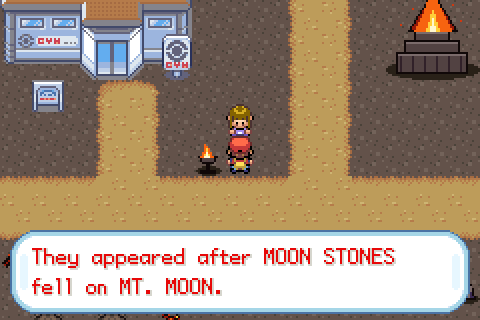
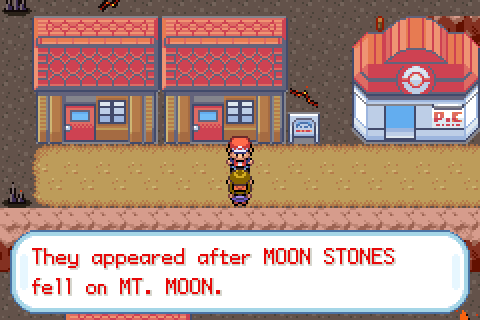
Pyropia v3: three terraces with retaining walls and stairs, big lava lake, gym on the summit (v2 flat kept as reference)
Claude-Session: https://claude.ai/code/session_01GQJ6VBZbBVtTh4mURN6n2L

diff --git a/docs/topaze/reference/pyropia_v2.py b/docs/topaze/reference/pyropia_v2.py
@@ -97,14 +97,7 @@ def claim(x, y, w, h, name):
             assert 0 <= x + i <= W - 1 and 0 <= y + j <= H - 1, (name, x + i, y + j)
             assert (x + i, y + j) not in OCC, 'chevauchement %s avec %s en %s' % (name, OCC[(x + i, y + j)], (x + i, y + j))
             OCC[(x + i, y + j)] = name
-# ---- relief : 3 terrasses (sommet / milieu / bas) separees par des murs de roche decales, escaliers, cadre de falaises
-# portes : sud x=22..23 (y 38..39) ; est y=25..26 (x 46..47)
-FACE = 628
-def wallh(x0, x1, y, stairs=()):
-    """mur de soutenement de 2 cases : bandeau de roche (625) au-dessus, face (628) en dessous"""
-    for x in range(x0, x1 + 1):
-        if any(a <= x <= b for (a, b) in stairs): continue
-        claim(x, y - 1, 1, 2, 'mur'); put(x, y - 1, remap(0x400 | 625)); put(x, y, remap(0x400 | FACE))
+# ---- cadre de falaises : nord (625 plateau / 628 front), ouest 626, est 626 en miroir, sud plateau ; portes sud x=22..23, est y=22..23
 for x in range(W):
     put(x, 0, remap(0x400 | 625)); put(x, 1, remap(0x400 | 628))
     put(x, H - 1, remap(0x400 | 625)); put(x, H - 2, remap(0x400 | 625))
@@ -113,21 +106,15 @@ for y in range(2, H - 2):
     put(W - 2, y, remap(0x400 | 626, True)); put(W - 1, y, remap(0x400 | 626, True))
 for x in (22, 23):
     for y in (H - 2, H - 1): put(x, y, GRASS)
-for y in (25, 26):
+for y in (22, 23):
     for x in (W - 2, W - 1): put(x, y, GRASS)
 for (x, y) in list(G):
     if x in (0, 1, W - 2, W - 1) or y in (0, 1, H - 2, H - 1): OCC[(x, y)] = 'cadre'
-STAIRS = []                                    # cases d'escalier (marchables, dessinees)
-W1A = (2, 29, 11); W1B = (30, 45, 12); W2A = (2, 24, 20); W2B = (26, 45, 24)
-ST = {'W1A': [(22, 23)], 'W1B': [(42, 43)], 'W2A': [(22, 23)], 'W2B': [(40, 41)]}
-for nm, (x0, x1, y) in (('W1A', W1A), ('W1B', W1B), ('W2A', W2A), ('W2B', W2B)):
-    wallh(x0, x1, y, ST[nm])
-    for (a, b) in ST[nm]:
-        for x in range(a, b + 1):
-            for yy in (y - 1, y): claim(x, yy, 1, 1, 'escalier'); STAIRS.append((x, yy))
-for y in range(19, 25):                                  # joint vertical : le milieu-est domine le bas-ouest (mur miroir : face tournee vers l'ouest)
-    claim(25, y, 1, 1, 'mur'); put(25, y, remap(0x400 | 626, True))
-# ---- lacs de lave : ouest = bassin de Lavaridge (6x8) ; est = grand lac (rectangle bordé de roche)
+# ---- pins decoratifs (1 case, bloques) en bordure interieure
+PINE = [198, 22, 14]
+def pine(x, y): claim(x, y, 1, 1, 'pin'); put(x, y, remap(0x400 | PINE[(x * 3 + y) % 3]))
+
+# ---- batiments : morceaux de Lavaridge poses au coin (dx, dy)
 def chunk(x0, y0, cw, ch, dx, dy, name):
     claim(dx, dy, cw, ch, name); doors = []
     for j in range(ch):
@@ -135,70 +122,49 @@ def chunk(x0, y0, cw, ch, dx, dy, name):
             v = lv(x0 + i, y0 + j); put(dx + i, dy + j, remap(v))
             if 0x60 <= beh(v & 0x3ff) <= 0x6f: doors.append((dx + i, dy + j))
     return doors
-def lake(x0, y0, w, h, name):
-    claim(x0, y0, w, h, name)
-    for j in range(h):
-        for i in range(w):
-            top, bot, lef, rig = j == 0, j == h - 1, i == 0, i == w - 1
-            if top: m = 665 if lef else 669 if rig else (666, 667)[i % 2]
-            elif bot: m = 689 if lef else 693 if rig else (690, 691)[i % 2]
-            elif lef: m = 673
-            elif rig: m = 677
-            else: m = (675, 699, 675, 700, 797)[(i * 3 + j) % 5] if (i + j) % 4 == 0 else 675
-            put(x0 + i, y0 + j, remap(0x400 | m))
 D = {}
-chunk(2, 2, 6, 8, 4, 2, 'lac ouest')
-lake(31, 3, 10, 5, 'lac est')
-D['gym'] = chunk(2, 11, 6, 5, 20, 3, 'arene')
-D['museumA'] = chunk(11, 12, 4, 4, 4, 13, 'musee aile A')
-D['museumB'] = chunk(15, 12, 4, 4, 8, 13, 'musee aile B')
-D['center'] = chunk(8, 3, 4, 4, 14, 13, 'centre pokemon')
-D['mart'] = chunk(14, 2, 4, 4, 36, 13, 'boutique')
+D['pool'] = chunk(2, 2, 6, 8, 4, 3, 'lac de lave')
+D['gym'] = chunk(2, 11, 6, 5, 6, 14, 'arene')
+D['center'] = chunk(8, 3, 4, 4, 14, 5, 'centre pokemon')
+D['mart'] = chunk(14, 2, 4, 4, 36, 12, 'boutique')
+D['museumA'] = chunk(11, 12, 4, 4, 27, 5, 'musee aile A')
+D['museumB'] = chunk(15, 12, 4, 4, 31, 5, 'musee aile B')
 D['house1'] = chunk(11, 12, 4, 4, 38, 29, 'maison 1')
 D['house2'] = chunk(15, 12, 4, 4, 12, 29, 'maison 2')
 D['hallE'] = chunk(11, 12, 4, 4, 28, 29, 'maison deco E')
 D['hallW'] = chunk(15, 12, 4, 4, 5, 29, 'maison deco O')
-D['hallA'] = chunk(15, 12, 4, 4, 5, 22, 'maison deco A')
-D['hallB'] = chunk(11, 12, 4, 4, 11, 23, 'maison deco B')
-D['hallC'] = chunk(11, 12, 4, 4, 30, 13, 'maison deco C')
-D['hallD'] = chunk(15, 12, 4, 4, 30, 17, 'maison deco D') if False else []
-print('portes', {k: v for k, v in D.items()})
-DECO = ('hallE', 'hallW', 'hallA', 'hallB', 'hallC')
-for k in DECO:                               # maisons decoratives : la porte devient une fenetre
+D['hallN'] = chunk(11, 12, 4, 4, 38, 4, 'maison deco NE')
+# maisons purement decoratives : la porte devient un mur (pas de warp -> pas de porte qui ne s'ouvre pas)
+for k in ('hallE', 'hallW', 'hallN'):
     x, y = D[k][0]
     put(x, y - 1, remap(0x400 | 11)); put(x, y, remap(0x400 | 19)); D[k] = []
-D = {k: v for k, v in D.items() if k != 'hallD'}
-for k in list(D): assert D[k] or k in DECO, ('pas de porte', k)
+print('portes', {k: v for k, v in D.items() if k != 'pool'})
+for k in ('pool',): D.pop(k)
+DECO = ('hallE', 'hallW', 'hallN')
+for k in list(D):
+    assert D[k] or k in DECO, ('pas de porte', k)
 DOORS = {k: v[0] for k, v in D.items() if v}
+DECO_FRONT = {'hallE': (29, 32), 'hallW': (6, 32), 'hallN': (39, 7)}
 json.dump(DOORS, open('/tmp/pyropia_doors.json', 'w'))
-# ---- chemins (autotile 280..298, largeur 2)
+
+# ------------------------------------------------------------------ chemins (autotile du primaire 280..298), larges de 2 cases
 PATH = set()
 def pr(x0, y0, x1, y1):
     for y in range(y0, y1 + 1):
         for x in range(x0, x1 + 1): PATH.add((x, y))
-fr = lambda k: (DOORS[k][0], DOORS[k][1] + 1)
-pr(22, 8, 23, H - 1)                    # avenue (de l'arene a la sortie sud)
-pr(11, 8, 29, 9)                        # esplanade devant l'arene
-pr(24, 8, 45, 9)                        # promenade sous le grand lac
-pr(42, 13, 43, 16)                      # descente est : sommet -> milieu
-pr(42, 10, 43, 10)
-pr(24, 25, W - 1, 26)                   # rue est (sortie est)
+pr(22, 2, 23, H - 1)                    # avenue (sortie sud)
+pr(3, 22, W - 1, 23)                    # rue est-ouest (sortie est)
 pr(3, 33, 44, 34)                       # rue du sud
-pr(4, 17, 41, 18)                       # rue du milieu
-pr(40, 19, 41, 22)                      # milieu -> bas (escalier est)
-for k in ('museumA', 'museumB', 'center'): pr(fr(k)[0], fr(k)[1], fr(k)[0] + 1, 18)
-pr(fr('mart')[0], fr('mart')[1], fr('mart')[0] + 1, 18)
-pr(fr('gym')[0], fr('gym')[1], fr('gym')[0] + 1, 9)
+fr = lambda k: (DOORS[k][0], DOORS[k][1] + 1)
+pr(fr('gym')[0], fr('gym')[1], fr('gym')[0] + 1, 21)
+pr(fr('center')[0], fr('center')[1], fr('center')[0] + 1, 21)
+pr(23, 10, 41, 11)                      # rue du musee
+for k in ('museumA', 'museumB'): pr(fr(k)[0], fr(k)[1], fr(k)[0] + 1, 10)
+pr(fr('mart')[0], fr('mart')[1], fr('mart')[0] + 1, 21)
 for k in ('house1', 'house2'): pr(fr(k)[0], fr(k)[1], fr(k)[0] + 1, 33)
-pr(10, 20, 11, 33) if False else None
-pr(5, 27, 6, 28) if False else None
-# les cases de mur / escalier ne sont pas des chemins
-for c in list(PATH):
-    if OCC.get(c) in ('mur', 'escalier'): PATH.discard(c)
 for (x, y) in PATH: assert (x, y) not in OCC or OCC[(x, y)] in ('cadre',), ('chemin sur un decor', (x, y), OCC.get((x, y)))
 def path_id(x, y):
-    N = (x, y - 1) in PATH or (x, y - 1) in STAIRS or y == 0; S = (x, y + 1) in PATH or (x, y + 1) in STAIRS or y == H - 1
-    Wn = (x - 1, y) in PATH or x == 0; E_ = (x + 1, y) in PATH or x == W - 1
+    N = (x, y - 1) in PATH or y == 0; S = (x, y + 1) in PATH or y == H - 1; Wn = (x - 1, y) in PATH or x == 0; E_ = (x + 1, y) in PATH or x == W - 1
     if N and S and Wn and E_: return 289
     if not N and not Wn and S and E_: return 280
     if not N and not E_ and S and Wn: return 282
@@ -211,13 +177,8 @@ def path_id(x, y):
     return 289
 for (x, y) in PATH:
     put(x, y, 0x3000 | path_id(x, y)); OCC[(x, y)] = 'chemin'
-# ---- pins en bordure
-PINE = [198, 22, 14]
-def pine(x, y): claim(x, y, 1, 1, 'pin'); put(x, y, remap(0x400 | PINE[(x * 3 + y) % 3]))
-SIGN = remap(0x400 | 3)
-def sign(x, y): claim(x, y, 1, 1, 'panneau'); put(x, y, SIGN)
-SIGNS = {'museum': (12, 16), 'police': (42, 27), 'gym': (19, 7), 'tips': (25, 35), 'city': (21, 35)}
-for k, c in SIGNS.items(): sign(*c)
+# les 4 cases d'angle de croisement internes : on garde 289 (centre) ; bord de carte ouvert aux portes
+
 # ------------------------------------------------------------------ art procedural : vents de braise, braseros, cairn de flamme
 used_pals = {q >> 12 for e in SEC_ENT for q in e}
 FREE = [p for p in range(7, 13) if p not in used_pals]
@@ -290,41 +251,38 @@ def slice_all(im, bw, bh): return {(i, j): meta(im.crop((i * 16, j * 16, i * 16 
 CAIRN = slice_all(cairn(), 3, 3); VENT = [meta(vent(0)), meta(vent(1))]; BRAZ = meta(brazier()); SPIRE = [meta(spire(0)), meta(spire(1))]
 def art1(x, y, m, name, blocked=True):
     claim(x, y, 1, 1, name); put(x, y, ('ARTRAW', m, 0x400 if blocked else 0x3000))
-def stairs():
-    im = ground_bg(16, 16); d = ImageDraw.Draw(im)
-    for k, y in enumerate((0, 4, 8, 12)):
-        d.rectangle((0, y, 15, y + 2), fill=(8 if k % 2 else 7), outline=None); d.line([(0, y + 3), (15, y + 3)], fill=5)
-    d.line([(0, 0), (0, 15)], fill=5); d.line([(15, 0), (15, 15)], fill=5)
-    return im
-STAIR = meta(stairs())
-
-for (x, y) in STAIRS: put(x, y, ('ARTRAW', STAIR, 0x3000))
 for (i, j), m in CAIRN.items():
-    claim(16 + i, 22 + j, 1, 1, 'cairn'); put(16 + i, 22 + j, ('ARTRAW', m, 0x400))
-def art1(x, y, m, name, blocked=True):
-    claim(x, y, 1, 1, name); put(x, y, ('ARTRAW', m, 0x400 if blocked else 0x3000))
-for (x, y) in ((21, 5), (21, 8), (24, 13), (21, 13), (24, 16), (21, 16), (21, 22), (24, 22), (21, 28), (24, 28), (21, 31), (24, 31), (21, 36), (24, 36), (9, 19), (18, 17), (36, 18), (3, 20)):
+    claim(18 + i, 16 + j, 1, 1, 'cairn'); put(18 + i, 16 + j, ('ARTRAW', m, 0x400))
+for (x, y) in ((21, 4), (24, 4), (21, 8), (24, 8), (21, 14), (24, 14), (21, 19), (24, 19), (21, 26), (24, 26), (21, 30), (24, 30), (21, 36), (24, 36), (9, 21), (12, 21), (14, 24), (17, 24)):
     if (x, y) not in OCC: art1(x, y, BRAZ, 'brasero')
-for (x, y, v) in ((6, 12, 0), (12, 15, 1), (27, 14, 0), (34, 20, 1), (45, 20, 0), (28, 4, 1), (11, 5, 0), (30, 6, 1), (15, 24, 0), (28, 22, 1), (33, 28, 0), (35, 25 + 3, 1), (9, 36, 0), (17, 36, 1), (44, 36, 0), (3, 26, 1)):
-    if (x, y) not in OCC: art1(x, y, VENT[v], 'vent', blocked=False)
-for (x, y, v) in ((3, 12, 0), (3, 18, 1), (26, 12, 0), (44, 14, 1), (44, 22, 0), (26, 22, 1), (20, 14, 0), (14, 20, 1), (43, 36, 0), (3, 36, 1), (30, 36, 0), (11, 10, 1), (28, 3, 0)):
+for (x, y, v) in ((6, 24, 0), (11, 26, 1), (17, 27, 0), (33, 17, 1), (30, 25, 0), (35, 24, 1), (42, 22 - 5, 0), (26, 14, 1), (17, 14, 0), (3, 12, 1), (44, 13, 0), (34, 36, 1), (8, 36, 0), (15, 36, 1), (41, 24, 0)):
+    if not any((x + i, y + j) in OCC for i in (0,) for j in (0,)): art1(x, y, VENT[v], 'vent', blocked=False)
+for (x, y, v) in ((3, 18, 0), (3, 25, 1), (44, 17, 0), (43, 24, 1), (20, 25, 0), (26, 24, 1), (44, 36, 0), (3, 36, 1), (20, 36, 1), (30, 36, 0)):
     if (x, y) not in OCC: art1(x, y, SPIRE[v], 'obsidienne')
+# ---- pins en bordure
+for (x, y) in [(2, yy) for yy in range(2, 12)] + [(45, yy) for yy in range(2, 21)] + [(xx, 37) for xx in range(2, 12)] + [(xx, 37) for xx in range(38, 46)] + [(45, yy) for yy in range(25, 38)] + [(2, yy) for yy in range(24, 37)]:
+    if (x, y) not in OCC and (x, y) not in PATH: pine(x, y)
+# ---- bosquets de pins calcines (hasard repete) dans les coins libres
 def grove(x0, y0, x1, y1, n):
     k = 0; tries = 0
     while k < n and tries < 400:
         tries += 1; x = rnd.randint(x0, x1); y = rnd.randint(y0, y1)
         if all((x + i, y + j) not in OCC for i in (-1, 0, 1) for j in (-1, 0, 1)) and not any((x + i, y + j) in PATH for i in (-2, -1, 0, 1, 2) for j in (-2, -1, 0, 1, 2)): pine(x, y); k += 1
-for (x, y) in [(2, yy) for yy in range(2, 38)] + [(45, yy) for yy in range(2, 38)] + [(xx, 37) for xx in range(2, 46)]:
-    if (x, y) not in OCC and (x, y) not in PATH and rnd.random() < 0.7: pine(x, y)
-grove(3, 3, 3, 10, 2); grove(26, 3, 29, 10, 3); grove(5, 12, 7, 12, 1); grove(26, 13, 29, 22, 5); grove(43, 13, 45, 22, 4); grove(3, 22, 10, 28, 5); grove(26, 24, 39, 32, 8)
-grove(14, 24, 20, 28, 4); grove(14, 36, 40, 36, 8)
+grove(3, 24, 11, 28, 7); grove(16, 25, 21, 28, 4); grove(3, 12, 5, 21, 4); grove(40, 16, 44, 21, 6); grove(40, 24, 44, 28, 5)
+grove(14, 12, 21, 16, 4); grove(33, 24, 44, 27, 5); grove(24, 14, 34, 21, 5); grove(3, 35, 44, 36, 8); grove(24, 24, 27, 28, 3)
+# ---- panneaux
+SIGN = remap(0x400 | 3)
+def sign(x, y): claim(x, y, 1, 1, 'panneau'); put(x, y, SIGN)
+SIGNS = {'museum': (26, 9), 'police': (42, 24), 'gym': (7, 19), 'tips': (25, 35), 'city': (21, 35)}
+for k, c in SIGNS.items(): sign(*c)
+
 # ------------------------------------------------------------------ accessibilite / PNJ
-NPC = {'lass': (10, 19 - 1), 'fatman': (26, 28), 'bugcatcher': (30, 20), 'hidden': (34, 21)}
+NPC = {'lass': (13, 20), 'fatman': (26, 25), 'bugcatcher': (34, 19), 'hidden': (30, 20)}
 def raw_blocked(c):
     v = G[c]
-    if isinstance(v, tuple): return bool(v[2] & 0xc00)
+    if isinstance(v, tuple): return True
     return bool(v & 0xc00)
-seen = {(22, 34)}; q = collections.deque([(22, 34)])
+seen = {(22, 22)}; q = collections.deque([(22, 22)])
 while q:
     c = q.popleft()
     for d in ((0, 1), (1, 0), (-1, 0), (0, -1)):
@@ -334,7 +292,7 @@ for k, c in NPC.items():
     assert c not in OCC or OCC[c] in ('chemin',), ('PNJ sur un decor', k, c, OCC.get(c))
     assert c in seen, ('PNJ inaccessible', k, c)
 for k, (x, y) in DOORS.items(): assert (x, y + 1) in seen, ('porte inaccessible', k, (x, y))
-for c in ((22, H - 1), (23, H - 1), (W - 1, 25), (W - 1, 26)): assert c in seen, c
+for c in ((22, H - 1), (23, H - 1), (W - 1, 22), (W - 1, 23)): assert c in seen, c
 for k, c in SIGNS.items(): assert (c[0], c[1] + 1) in seen or (c[0], c[1] - 1) in seen or (c[0] - 1, c[1]) in seen or (c[0] + 1, c[1]) in seen, ('panneau inaccessible', k)
 json.dump(NPC, open('/tmp/pyropia_npc.json', 'w')); json.dump({k: list(v) for k, v in SIGNS.items()}, open('/tmp/pyropia_signs.json', 'w'))
 

diff --git a/tools/topaze/emu/t_pyro_c.py b/tools/topaze/emu/t_pyro_c.py
@@ -4,7 +4,7 @@ from townlib import *
 import json
 P.B = {tuple(c) for c in json.load(open('/tmp/pyropia_col.json'))['blocked']}
 NP = json.load(open('/tmp/pyropia_npc.json')); SG = json.load(open('/tmp/pyropia_signs.json'))
-P.B |= {tuple(c) for k, c in NP.items() if k != 'hidden'} | {(22, 39), (23, 39), (47, 22), (47, 23)}
+P.B |= {tuple(c) for k, c in NP.items() if k != 'hidden'} | {(22, 39), (23, 39), (47, 25), (47, 26)}
 start('py_0'); sh(['key UP 18', 'run 20'])
 for n, face in (('lass', 'DOWN'), ('fatman', 'UP'), ('bugcatcher', 'UP')):
     x, y = NP[n]
@@ -17,7 +17,7 @@ for n, (x, y) in SG.items():
         try: goto(tgt); break
         except Exception: continue
     print(n, tgt, sh(talk(f, 'py_sgn_' + n, 2)))
-goto((45, 22)); print('est ->', sh(['key RIGHT 70', 'run 120', 'shot py_r3.ppm']))
+goto((45, 25)); print('est ->', sh(['key RIGHT 70', 'run 120', 'shot py_r3.ppm']))
 print('retour', sh(['key RIGHT 18', 'run 20', 'key LEFT 50', 'run 120']))
 goto((22, 38)); print('sud ->', sh(['key DOWN 70', 'run 120', 'shot py_r2.ppm']))
 print('retour', sh(['key DOWN 18', 'run 20', 'key UP 50', 'run 120']))

diff --git a/docs/topaze/reference/pyropia_events_v2.py b/docs/topaze/reference/pyropia_events_v2.py
@@ -18,7 +18,7 @@ d['warp_events'] = [warp(*DR['museumA'], 'MAP_PEWTER_CITY_MUSEUM_1F', 1), warp(*
                     warp(*DR['gym'], 'MAP_PEWTER_CITY_GYM', 1), warp(*DR['mart'], 'MAP_PEWTER_CITY_MART', 1), warp(*DR['house1'], 'MAP_PEWTER_CITY_HOUSE1', 1),
                     warp(*DR['center'], 'MAP_PEWTER_CITY_POKEMON_CENTER_1F', 1), warp(*DR['house2'], 'MAP_PEWTER_CITY_HOUSE2', 1),
                     warp(22, 39, 'MAP_ROUTE2', 15), warp(23, 39, 'MAP_ROUTE2', 16),
-                    warp(47, 25, 'MAP_ROUTE3', 0), warp(47, 26, 'MAP_ROUTE3', 1)]
+                    warp(47, 22, 'MAP_ROUTE3', 0), warp(47, 23, 'MAP_ROUTE3', 1)]
 d['connections'] = []
 d['coord_events'] = []
 # ---- panneaux (les 5 d'origine) + objet cache

diff --git a/tools/topaze/emu/t_pyro_b.py b/tools/topaze/emu/t_pyro_b.py
@@ -5,7 +5,7 @@ import json
 P.B = {tuple(c) for c in json.load(open('/tmp/pyropia_col.json'))['blocked']}
 NP = json.load(open('/tmp/pyropia_npc.json')); DR = json.load(open('/tmp/pyropia_doors.json'))
 P.B |= {tuple(c) for k, c in NP.items() if k != 'hidden'}
-P.B |= {(22, 39), (23, 39)} | {(47, 22), (47, 23)}
+P.B |= {(22, 39), (23, 39)} | {(47, 25), (47, 26)}
 start('py_0')
 sh(['key UP 18', 'run 20'])
 for k, (x, y) in DR.items():

diff --git a/docs/technique/ARCHITECTURE.md b/docs/technique/ARCHITECTURE.md
@@ -48,7 +48,7 @@ Le dépôt est celui de pokefirered ; seuls les éléments modifiés pour Topaze
 | **Grenalux v5 – grande ville 44×36 (référence v5)** | `docs/topaze/grenalux_big.py` (ordre : `import_emerald_tiles.py` → `grenat_palette.py` → `grenalux_big.py`) : avenue nord-sud, grande rue est-ouest, place centrale avec îlot et monument de cristal, bassin sud relié à la route 21, 4 bâtiments utiles (joueur (8,9), ranch (36,8), labo (35,21), musée (8,21)) et 6 maisons décoratives, potager, ~34 arbres, cristaux. Connexions : route 1 décalée de 10 (ouverture en x=22..23), route 21 décalée de 14 (eau en x=21..23). `heal_locations.json` : respawn (8,10). **La v4 (24×20) reste la référence** : branche `grenalux-v4-reference` et `docs/topaze/reference/` (carte, map.json, scripts, image) ; ses scripts (`grenalux_emerald.py`, `grenalux_crystals.py` en `__main__`) restent exécutables mais il faut alors remettre les dimensions 24×20 dans `layouts.json` et `map.json`. |
 | **Grenalux v6 – ville vivable (version actuelle)** | `docs/topaze/grenalux_town.py` puis `grenalux_events.py` (ordre : `import_emerald_tiles.py` → `grenat_palette.py` → `git checkout fa8f0d0 -- data/layouts/layouts.json` → `grenalux_town.py` → `grenalux_events.py`). Plan d'occupation avec assertions (aucun chevauchement, portes et PNJ atteignables), toits en variantes de palette (11 ardoise-violet, 12 ocre), lampadaires de cristal, cristaux gardiens de l'avenue, carrière de blocs + entrée de mine à l'est, bassin avec promenade, potager, bosquets, chemins de portes par BFS, 6 PNJ d'ambiance (textes provisoires). **Ranch** : maison voisine remplacée par un **jardin de baies décoratif** (parcelle clôturée, buissons à baies non récoltables, jardinière qui l'explique) ; panneau du ranch en (37,9). Clôtures, foin, abreuvoir, buissons, grange et silo (grand ranch) sont dessinés par code dans `grenalux_crystals.py` (pas de moulin/grange dans les tilesets officiels FR/Émeraude). **Grand ranch** : carte `PalletTown_Ranch` (32×24, groupe 4 n°5, layout `LAYOUT_PALLET_TOWN_RANCH`), généré par la 2ᵉ partie de `grenalux_town.py` puis `grenalux_ranch_events.py` ; accessible par l'ouverture du cadre d'arbres à l'est de Grenalux (x=42..43, y=6..7, connexion « droite » décalage 0) : écurie, grange + silo, 3 enclos, cristaux, ouvriers, fillette, animaux. **Avant/après l'attaque** (`FLAG_GRENALUX_ONYBRIS_STRIKE`) : clôture est de l'enclos B intacte puis ouverte (`setmetatile` au chargement), Doduo et 2 Nidoran (Pokémon pisteurs) présents puis disparus, ouvrier au pied de la clôture coupée (`FLAG_HIDE_RANCH_CUT_HAND`) visible seulement après, dialogues des ouvriers changés. Mêmes portes/coordonnées d'événements que la v5 sauf panneau du labo (36,22). **Sorties de ville** : nord (Route 1) et sud (Route 21, par l'eau) sont des **warps** (pas des connexions : mélange de tilesets Émeraude/FR = tuiles brouillées) ; un warp s'active sur case ordinaire dans PalletTown/Route1/Route21_North grâce à `IsTopazeStepWarpMap()` (`src/field_control_avatar.c`). Seule la connexion est (ranch) subsiste, même tileset. Les versions v4 (24×20) et v5 (44×36) restent archivées : branches `grenalux-v4-reference`, `grenalux-v5-reference` et `docs/topaze/reference/`. |
 | **Opanihrum v1 – la cité de l'Opale noire (arène d'Hepha, Acier)** | Ville 42×40 (slot de Jadielle, `LAYOUT_VIRIDIAN_CITY`) construite avec les décors de **Rustboro** (pierre grise d'Émeraude) recolorés en ardoise bleu-nuit (« plus il est sombre, plus il cache de couleurs », cf. dialogue d'Hepha) + art procédural : monument d'opale noire à reflets irisés, enclumes, lingots. `docs/topaze/opanihrum_town.py` (génère carte + tilesets `general_opal` / `rustboro_opal`, **secondaire compacté** : seules les métatuiles utilisées sont gardées, 161+49 tuiles sur 384) puis `opanihrum_events.py`. Rendu d'aide au choix des morceaux : `docs/topaze/emrender.py` (`../pokeemerald` doit avoir `data/layouts/RustboroCity` en sparse-checkout). Bâtiments : **fonderie** (10×9, arène, 2 portes en (8,11)/(9,11), verrouillée par `VAR_MAP_SCENE_VIRIDIAN_CITY_GYM_DOOR`), école, maison, Centre (16,20), Boutique (27,20) + 6 bâtiments décoratifs, fontaine, parc, parterres, lampadaires, grille de fer. Vieil homme (barrage/tutoriel de capture) déplacé à la **porte nord** (20,2), déclencheur (21,2). Sorties = **warps** : nord Route 2 (`x=7..11,y=79`), sud Route 1 (`x=10..13,y=0`), ouest Route 22 (`x=47,y=6..9`) ; `IsTopazeStepWarpMap()` étendu à `LAYOUT_VIRIDIAN_CITY`/`ROUTE2`/`ROUTE22`. Respawn du Centre mis à jour (`heal_locations.h`). Ordre : `opanihrum_town.py` → `opanihrum_events.py` → supprimer `build/firered/data/maps.o` → `make`. Rendu : `docs/topaze/reference/opanihrum_v1.png`. |
-| **Pyropia v2 « retapée » – la cité du volcan (arène de Kay, Feu)** | Ville 48×40 (slot d'Argenta, `LAYOUT_PEWTER_CITY`) refaite avec les décors de **Lavaridge** (falaises rouges, bassin, arène, maisons à écailles) recolorés en braise : cendre sombre, terre brûlée, **bassin = lac de lave** (teinte HLS de la palette 8, comportement « eau » retiré : pas de Surf) + art procédural (vents de braise, braseros, obsidienne, **cairn de flamme** 3×3). `docs/topaze/pyropia_town.py` (carte + tilesets `general_ember` / `lavaridge_ember`, secondaire compacté 43+47 tuiles, **variantes miroir** pour la falaise est) puis `pyropia_events.py`. Avenue nord-sud (sortie sud → Route 2), rue est-ouest (sortie est → Route 3), rue du sud ; musée = 2 ailes (2 portes), 2 maisons enterrables + 3 maisons décoratives (porte remplacée par une fenêtre). Sorties = **warps** (`IsTopazeStepWarpMap()` étendu à `LAYOUT_PEWTER_CITY`/`ROUTE3`), Route 2 (8..11,0) et Route 3 (0,9..12). Guides scriptés d'origine (guide de l'arène, du musée, assistant aux chaussures, arbre à couper) retirés/cachés (OnTransition) car leurs trajets étaient codés en dur ; chaussures de course déjà données au début. **Respawn du Centre** : désormais dans `src/data/heal_locations.json` (le `.h` est généré et ignoré par git ; l'ancienne édition du `.h` pour Opanihrum était perdue à chaque régénération : corrigée). Rendu : `docs/topaze/reference/pyropia_v2.png`. L'ancienne version (Argenta repeinte, `volcanic_pyropia.py`) est conservée dans l'historique. |
+| **Pyropia v3 « en terrasses » – la cité du volcan (arène de Kay, Feu)** | Ville 48×40 (slot d'Argenta, `LAYOUT_PEWTER_CITY`) refaite avec les décors de **Lavaridge** (falaises rouges, bassin, arène, maisons à écailles) recolorés en braise : cendre sombre, terre brûlée, **bassin = lac de lave** (teinte HLS de la palette 8, comportement « eau » retiré : pas de Surf) + art procédural (vents de braise, braseros, obsidienne, **cairn de flamme** 3×3). `docs/topaze/pyropia_town.py` (carte + tilesets `general_ember` / `lavaridge_ember`, secondaire compacté 43+47 tuiles, **variantes miroir** pour la falaise est) puis `pyropia_events.py`. **v3 (« la ville est plate »)** : relief en **3 terrasses décalées** (sommet : arène entre deux lacs de lave ; milieu : Centre, Boutique, musée ; bas : maisons et place du cairn) séparées par des **murs de soutènement de 2 cases** (bandeau 625 + face 628) avec **escaliers** dessinés, joint vertical en falaise miroir ; grand lac de lave est (rectangle bordé de roche, `lake()`). L'avenue monte en ligne droite de la sortie sud à l'arène ; rue du milieu, rue du bas, rue est (sortie est → Route 3 en (47,25..26)). La v2 plate est gardée : `docs/topaze/reference/pyropia_v2.{png,py}`. Avant (v2) : musée = 2 ailes (2 portes), 2 maisons enterrables + 3 maisons décoratives (porte remplacée par une fenêtre). Sorties = **warps** (`IsTopazeStepWarpMap()` étendu à `LAYOUT_PEWTER_CITY`/`ROUTE3`), Route 2 (8..11,0) et Route 3 (0,9..12). Guides scriptés d'origine (guide de l'arène, du musée, assistant aux chaussures, arbre à couper) retirés/cachés (OnTransition) car leurs trajets étaient codés en dur ; chaussures de course déjà données au début. **Respawn du Centre** : désormais dans `src/data/heal_locations.json` (le `.h` est généré et ignoré par git ; l'ancienne édition du `.h` pour Opanihrum était perdue à chaque régénération : corrigée). Rendu : `docs/topaze/reference/pyropia_v2.png`. L'ancienne version (Argenta repeinte, `volcanic_pyropia.py`) est conservée dans l'historique. |
 | **Route 1 « route du dégradé » (carte entièrement nouvelle 26×54)** | `docs/topaze/route1_gradient.py` puis `route1_events.py`. Les couleurs glissent du **grenat** (sud, Grenalux) au **violet** puis à l'**opale noire** (nord, Opanihrum) : 3 étages de palettes (mélange en teinte HLS par le violet) ; les métatuiles d'Émeraude (herbe, arbres, fleurs, herbe haute, sable) sont recopiées dans le tileset secondaire `gradient_road` avec d'autres numéros de palette (emplacements : étage 0 = primaire 0,2,5 ; étage 1 = primaire 1,3,4 ; étage 2 = secondaire 7,8,9 ; art 6/10/11 ; panneau 12), l'étage de chaque case suit le gradient sud→nord + un champ lisse + un grain (fondu irrégulier). Chemin sinueux, 10 zones d'herbes hautes (rencontres), cristaux épars (prismes de grenat → dômes d'opale) et « pierre du dégradé » (3×3). Warps : sud (12..13,53) ↔ Grenalux, nord (14..17,0) ↔ Opanihrum. Le garçon et le panneau ont de nouveaux textes (plus de corniches). Primaire `general_gradient`. Rendu : `docs/topaze/reference/route1_gradient_v1.png`. **v5 (actuelle)** : transitions arbres/herbe corrigées (arbres et herbe de bordure ou voisine d'un arbre prennent le même étage lissé, sans grain). Rendu : `route1_gradient_v5.png`. **v4 (gardée de côté : `reference/route1_gradient_v4.{png,py}`, branche `route1-gradient-v4-reference`)** : retour « trop longue, le joueur va tout droit » → carte raccourcie **26×38** et chemin **obligatoirement en zigzag** : 4 crêtes de roche quasi pleine largeur (bords ondulés) avec chacune une brèche, côtés alternés (`RIDGE_Y`, `GAPS` dans `route1_gradient.py`) ; warps sud (12..13,37), nord (14..17,0). Rendu : `route1_gradient_v4.png`. **v3 (archivée, `route1_gradient_v3.png`)** : retour de l'utilisateur sur la v2 « trop brute, pas assez naturel, les murs ne se touchent pas » → chemin en méandre continu (`xc(y)` + remplissage ligne à ligne), plus de monticules ni de corniches ; 11 **plateaux rocheux organiques** (blobs de croissance compacte) dessinés en **autotile** (masque des 4 voisins, 3 variantes, teinte selon l'étage au centroïde) donc les murs se touchent et forment des crêtes continues ; pierre du dégradé et panneau (11,51) conservés. Rendu : `docs/topaze/reference/route1_gradient_v3.png`. **v2 (archivée dans le rendu `route1_gradient_v2.png`)** : chemin beaucoup plus sinueux (18 points, segments courts), 5 **murs de collines** (monticules de roche 2×2, métatuiles 131/132/139/140, palette de roche partagée en 12) qui ne laissent que le chemin, **corniches** (ledges, saut vers le sud) en terrasses, panneau dessiné en art ; herbes hautes tirées au hasard près du chemin. La v1 (chemin presque droit) est conservée : `docs/topaze/reference/route1_gradient_v1.{png,py}` et branche `route1-gradient-v1-reference`. |
 | Ville de départ Grenalux | `PalletTown` (`text.inc`), `region_map_entry_strings.h` |
 | Rival par défaut ZEPHYR | `data/text/new_game_intro.inc` |

diff --git a/docs/technique/TESTS.md b/docs/technique/TESTS.md
@@ -112,6 +112,6 @@ Piste réaliste : faire d'abord le jeu jouable, puis ajouter un follower **limit
 
 ### Pyropia v2 (émulateur)
   - ROM de test jetable : sortie nord de Grenalux redirigée vers le sud de Pyropia (patch temporaire de `PalletTown/map.json`, restauré ensuite). Banc : `tools/topaze/emu/t_pyro_a.py` (arrivée), `t_pyro_b.py` (portes), `t_pyro_c.py` (PNJ, panneaux, sorties) avec `TOPAZE_COL=/tmp/pyropia_col.json`.
-  - OK : Arène, Centre, Boutique, Musée (2 ailes), 2 maisons : entrée et sortie ; 3 PNJ parlent ; 5 panneaux lisibles ; sortie est ↔ Route 3 et sud ↔ Route 2 dans les deux sens.
+  - OK : Arène, Centre, Boutique, Musée (2 ailes), 2 maisons : entrée et sortie ; 3 PNJ parlent ; 5 panneaux lisibles ; sortie est ↔ Route 3 et sud ↔ Route 2 dans les deux sens. v3 : le planificateur monte et descend par les escaliers (murs infranchissables), tous les tests ci-dessus repassent.
   - Corrigé : les maisons décoratives avaient une porte sans warp (maintenant fenêtre).
   - Non testés : gagner l'arène de Kay (inchangée), objet caché, ambiance des Routes 2 et 3 (encore d'origine).
